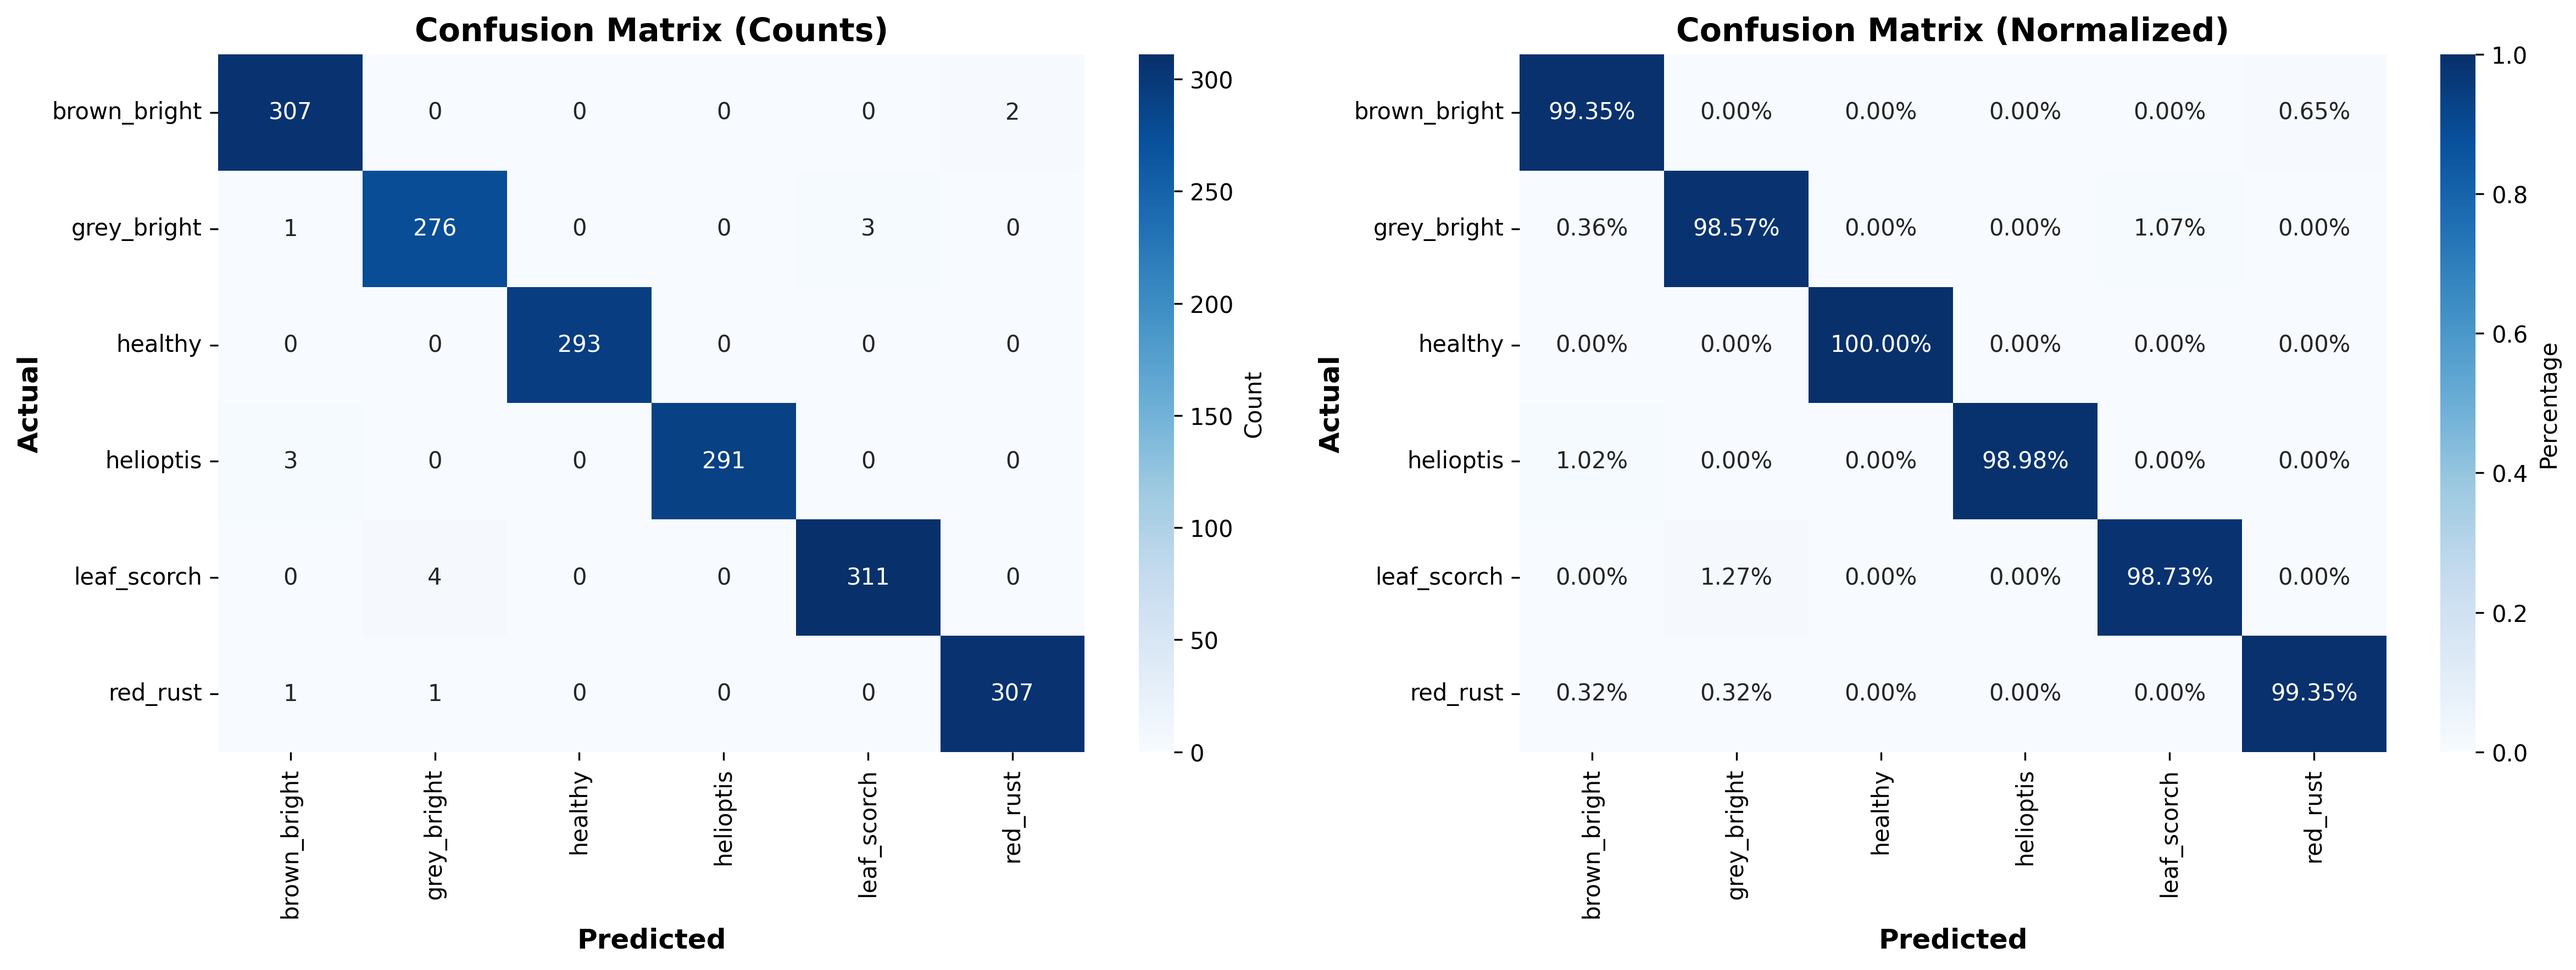
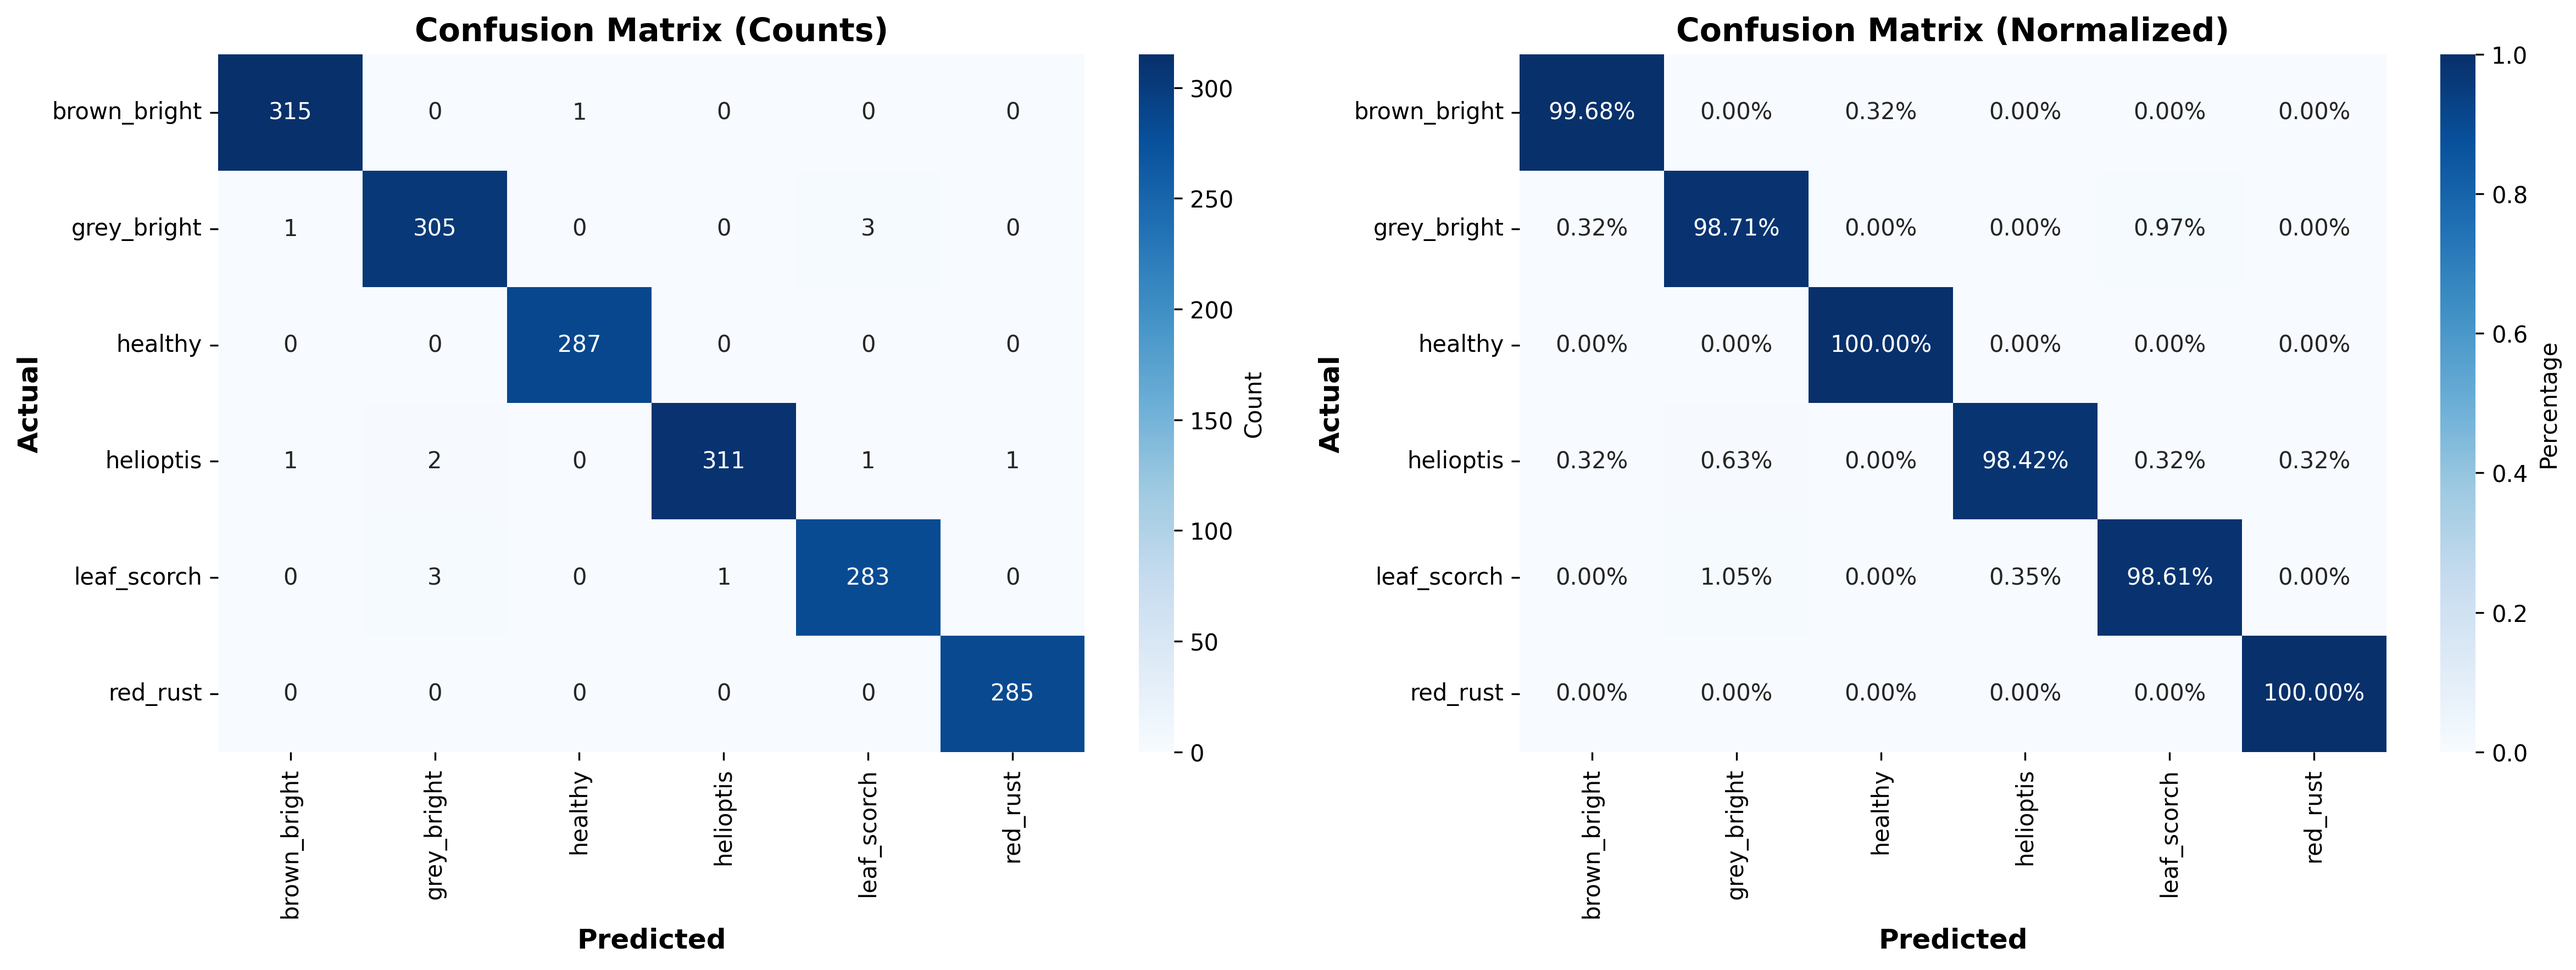
Update model architecture from EfficientNet-B0 to ResNet-101 and adjust classifier layers accordingly; update binary files for best model, confusion matrix, and training curves.

diff --git a/main.py b/main.py
@@ -3,7 +3,7 @@ import torch.nn as nn
 import torch.optim as optim
 from torch.utils.data import Dataset, DataLoader, random_split
 from torchvision import transforms
-from torchvision.models import efficientnet_b0, EfficientNet_B0_Weights
+from torchvision.models import resnet101, ResNet101_Weights
 import timm
 from timm.data.mixup import Mixup
 from timm.loss import LabelSmoothingCrossEntropy
@@ -355,13 +355,13 @@ def main():
     num_classes = len(class_to_idx)
     print(f"Number of classes: {num_classes}\n")
     
-    # Initialize model - EfficientNet-B0 (lighter and faster)
-    print("Initializing EfficientNet-B0 model...")
-    model = efficientnet_b0(weights=EfficientNet_B0_Weights.IMAGENET1K_V1)
+    # Initialize model - ResNet-101
+    print("Initializing ResNet-101 model...")
+    model = resnet101(weights=ResNet101_Weights.IMAGENET1K_V2)
     
     # Modify classifier for our number of classes
-    num_features = model.classifier[1].in_features
-    model.classifier[1] = nn.Linear(num_features, num_classes)
+    num_features = model.fc.in_features
+    model.fc = nn.Linear(num_features, num_classes)
     
     model = model.to(device)
     print(f"Model parameters: {sum(p.numel() for p in model.parameters())/1e6:.2f}M\n")
